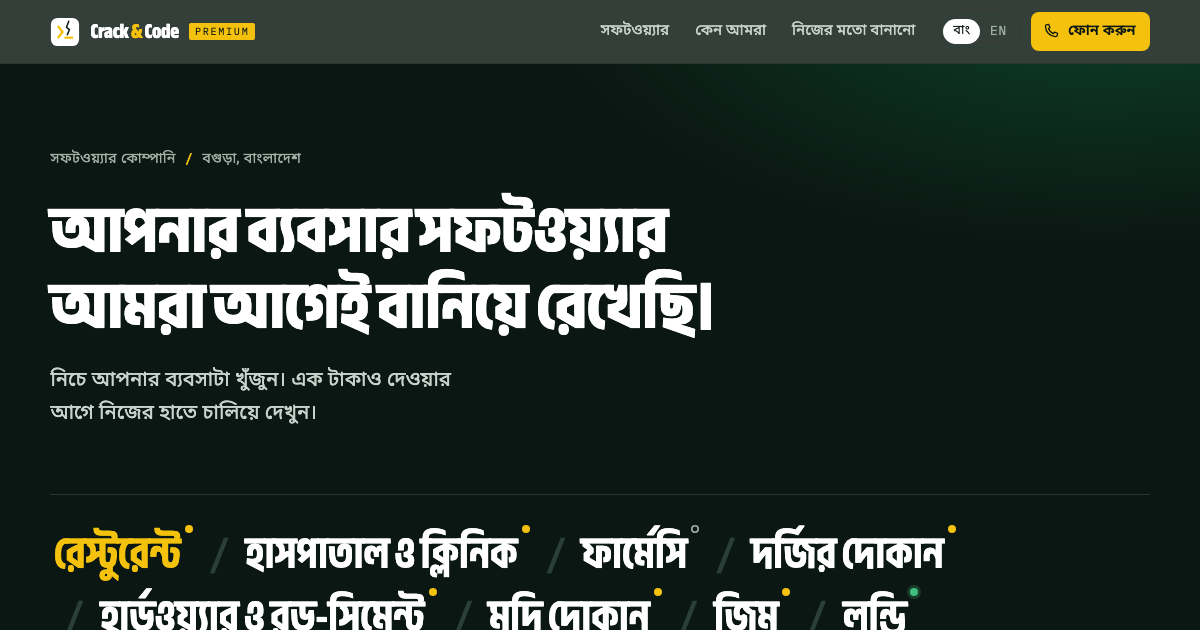
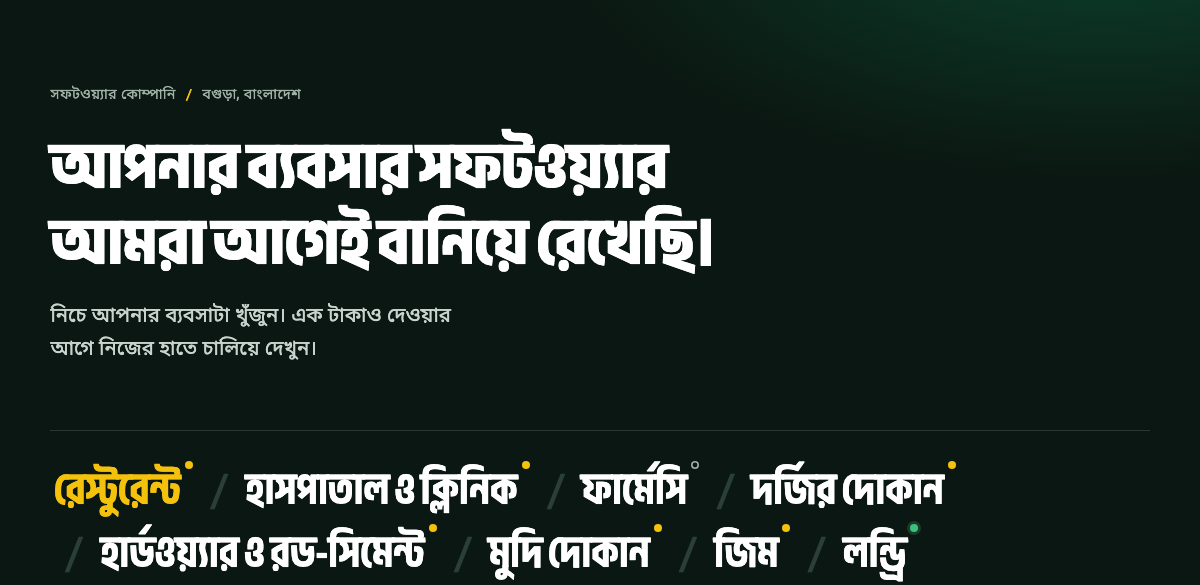
Tighten status claims, solid bars, cleaner share image

diff --git a/assets/data.js b/assets/data.js
@@ -288,7 +288,7 @@ window.CC_PRODUCTS = [
       en: "147 of 147 checks passed against the live server; data is backed up daily."
     },
     demo: "https://upasthit.dcampusbd.com",
-    note: { bn: "অ্যান্ড্রয়েড অ্যাপে ডেমো কোড 246810 দিলে একটা ডেমো অফিস তৈরি হয়", en: "Demo code 246810 in the Android app creates a sandbox office" },
+    note: { bn: "সাইট থেকে অ্যান্ড্রয়েড অ্যাপ নামিয়ে ডেমো কোড 246810 দিন, একটা ডেমো অফিস তৈরি হবে", en: "Download the Android app from the site and enter demo code 246810 for a sandbox office" },
     shots: [
       { f: "upasthit-1.webp", k: "p", c: { bn: "সেলফি দিয়ে হাজিরার পর", en: "After a selfie check-in" } },
       { f: "upasthit-2.webp", k: "p", c: { bn: "হাজিরার প্রমাণ", en: "Check-in evidence" } },
@@ -475,7 +475,7 @@ window.CC_PRODUCTS = [
     trade: { bn: "সেলস টিম ও কল সেন্টার", en: "Sales team & call centre" },
     name: { bn: "সেলস ডেস্ক · ডাক", en: "Sales Desk · Daak" },
     tone: "real",
-    status: { bn: "একটা কোম্পানিতে প্রতিদিন চলছে", en: "In daily use at a company" },
+    status: { bn: "সেলস ডেস্ক একটা কোম্পানিতে প্রতিদিন চলছে", en: "Sales Desk is in daily use at a company" },
     head: {
       bn: "গুগল শিটের জায়গায় আসল সেলস সিস্টেম, সাথে বাংলায় কথা বলা এআই কলার।",
       en: "A real sales system in place of the Google Sheet, plus an AI caller that speaks Bangla."
@@ -483,14 +483,14 @@ window.CC_PRODUCTS = [
     points: [
       { bn: "সেলস ডেস্ক: এক কোম্পানির ১০,১৪১টা লিড শিট থেকে তুলে এনেছি, একটা সারিও হারায়নি।", en: "Sales Desk: moved one company's 10,141 leads out of a sheet without losing a row." },
       { bn: "এজেন্ট এক ট্যাপে কলের ফল লেখে, ম্যানেজার দেখেন কোন বিজ্ঞাপন থেকে কত বিক্রি।", en: "Agents log a call in one tap; the manager sees sales per ad campaign." },
-      { bn: "ডাক: এআই আপনার লিডদের ফোন করে স্বাভাবিক বাংলায় কথা বলে, ডেমো বুক বা অর্ডার কনফার্ম করে।", en: "Daak: an AI that calls your leads in natural Bangla to book demos or confirm orders." }
+      { bn: "ডাক: এআই আপনার লিডদের ফোন করে স্বাভাবিক বাংলায় কথা বলে, ডেমো বুক বা অর্ডার কনফার্ম করে। এটা এখন ডেমো হিসেবে চালু।", en: "Daak: an AI that calls your leads in natural Bangla to book demos or confirm orders. It runs as a demo for now." }
     ],
     proof: {
       bn: "ডাক সবসময় শুরুতেই বলে যে সে একজন ডিজিটাল সহকারী আর কলটা রেকর্ড হচ্ছে। এই নিয়ম বদলানো যায় না।",
       en: "Daak always says it's a digital assistant and that the call is recorded. That rule can't be switched off."
     },
     demo: "https://daak.147.93.168.43.sslip.io/demo",
-    demoLabel: { bn: "এআই কলারের সাথে কথা বলুন", en: "Talk to the AI caller" },
+    demoLabel: { bn: "ডাক-এর ডেমো কলটা নিন", en: "Take Daak's demo call" },
     note: { bn: "সেলস ডেস্ক কাস্টমারের নিজের সিস্টেম, তাই স্ক্রিন দেখাচ্ছি না। ডাক-এর ডেমো ব্রাউজারেই চলে।", en: "Sales Desk is a client's own system, so its screens stay private. Daak's demo runs in the browser." },
     shots: [
       { f: "daak-1.webp", k: "d", c: { bn: "ডাক: একটা ব্যবসা বেছে কল নিন", en: "Daak: pick a business and take its call" } },

diff --git a/assets/site.css b/assets/site.css
@@ -101,12 +101,9 @@ ol, ul { list-style: none; }
   height: var(--bar-h);
   display: flex; align-items: center; gap: 24px;
   padding: 0 var(--gut);
-  background: rgb(11 23 18 / .94);
+  background: var(--ink);
   color: var(--chalk);
   border-bottom: 1px solid var(--rule-dark);
-}
-@supports (backdrop-filter: blur(1px)) {
-  .bar { background: rgb(11 23 18 / .82); backdrop-filter: saturate(1.4) blur(14px); }
 }
 .brand { display: flex; align-items: center; gap: 10px; text-decoration: none; color: var(--chalk); white-space: nowrap; }
 .brand-mark { width: 30px; height: 30px; color: var(--chalk); flex: none; }
@@ -222,11 +219,8 @@ html[data-lang="bn"] .hero-title { line-height: 1.16; letter-spacing: -.01em; ma
 .showcase { background: var(--plaster); padding-bottom: clamp(48px, 8vw, 110px); }
 .rail-wrap {
   position: sticky; top: var(--bar-h); z-index: 20;
-  background: rgb(241 243 239 / .95);
+  background: var(--plaster);
   border-bottom: 1px solid var(--rule);
-}
-@supports (backdrop-filter: blur(1px)) {
-  .rail-wrap { background: rgb(241 243 239 / .84); backdrop-filter: saturate(1.3) blur(12px); }
 }
 .rail {
   display: flex; gap: 2px; overflow-x: auto; scrollbar-width: none;
@@ -499,9 +493,8 @@ html[data-lang="en"] .claims li::before { content: counter(cl); font-family: var
   position: fixed; z-index: 40; left: 12px; right: 12px; bottom: calc(12px + env(safe-area-inset-bottom));
   display: none; gap: 8px;
   padding: 8px; border-radius: var(--r4);
-  background: rgb(11 23 18 / .92); box-shadow: 0 12px 30px -10px rgb(0 0 0 / .5);
+  background: var(--ink); box-shadow: 0 12px 30px -10px rgb(0 0 0 / .5);
 }
-@supports (backdrop-filter: blur(1px)) { .dock { background: rgb(11 23 18 / .8); backdrop-filter: blur(14px); } }
 .dock .btn { min-height: 46px; }
 .dock .btn-sign { flex: 1; }
 .dock .btn-ink { width: 50px; padding: 0; border: 1px solid var(--soot); }

diff --git a/index.html b/index.html
@@ -135,7 +135,7 @@
       <li>
         <span class="step-n">২</span>
         <h3 data-en="You try a sample">নমুনা হাতে নিয়ে দেখেন</h3>
-        <p data-en="We make a clickable sample you can tap through on your own phone. Change anything you like here, it costs nothing.">ক্লিক করে চালানো যায় এমন একটা নমুনা বানাই, নিজের ফোনে ঘুরে দেখেন। যা বদলাতে চান, এখানেই বলুন।</p>
+        <p data-en="We make a clickable sample you can tap through on your own phone. Tell us anything you want changed at this stage.">ক্লিক করে চালানো যায় এমন একটা নমুনা বানাই, নিজের ফোনে ঘুরে দেখেন। যা বদলাতে চান, এখানেই বলুন।</p>
       </li>
       <li>
         <span class="step-n">৩</span>

diff --git a/sw.js b/sw.js
@@ -1,4 +1,4 @@
-const CACHE = "cc-2026-10-12-1";
+const CACHE = "cc-2026-10-12-2";
 const CORE = [
   "./",
   "index.html",
